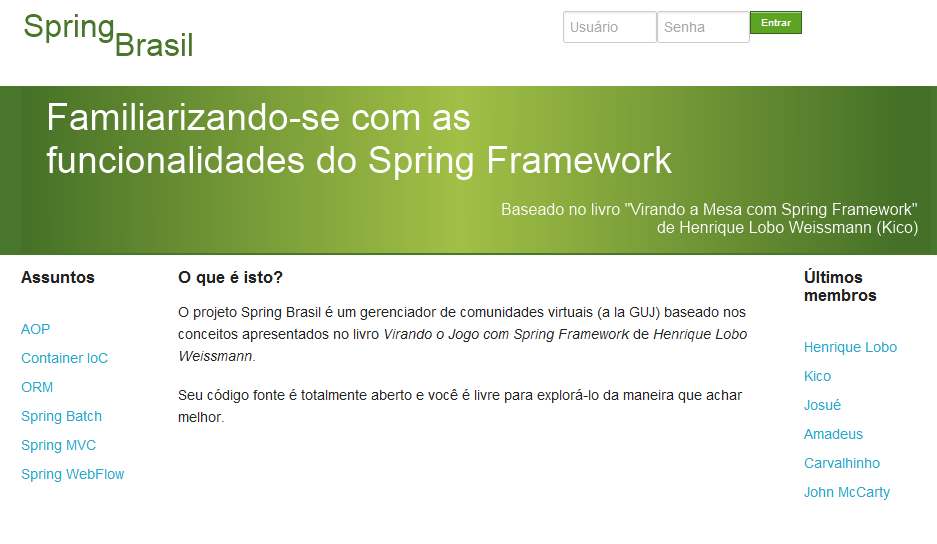
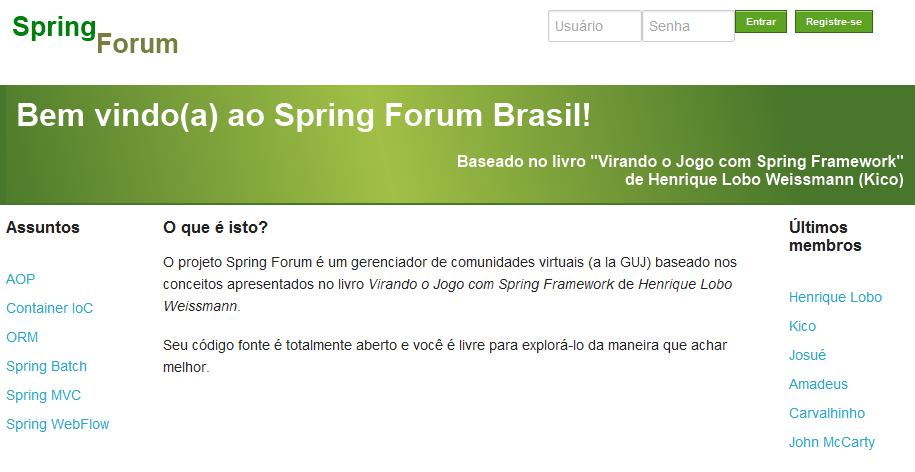
Continuando com trabalho de renomeio de Spring Brasil para Spring Forum

diff --git a/spring-brasil/src/main/java/br/com/itexto/springforum/controladores/ControllerHome.java b/spring-brasil/src/main/java/br/com/itexto/springforum/controladores/ControllerHome.java
@@ -1,0 +1,92 @@
+package br.com.itexto.springforum.controladores;
+
+import java.util.HashMap;
+import java.util.Map;
+
+import javax.servlet.http.HttpSession;
+import javax.validation.Valid;
+
+import org.springframework.beans.factory.annotation.Autowired;
+import org.springframework.stereotype.Controller;
+import org.springframework.validation.BindingResult;
+import org.springframework.web.bind.annotation.RequestMapping;
+import org.springframework.web.bind.annotation.RequestMethod;
+
+import br.com.itexto.springforum.dao.DAOAssunto;
+import br.com.itexto.springforum.dao.DAOTopico;
+import br.com.itexto.springforum.dao.DAOUsuario;
+import br.com.itexto.springforum.entidades.Usuario;
+
+@Controller
+public class ControllerHome {
+	
+	
+	@Autowired
+	private DAOUsuario daoUsuario;
+	@Autowired
+	private DAOTopico daoTopico;
+	@Autowired
+	private DAOAssunto daoAssunto;
+	
+	public DAOUsuario getDaoUsuario() {
+		return daoUsuario;
+	}
+
+	public void setDaoUsuario(DAOUsuario daoUsuario) {
+		this.daoUsuario = daoUsuario;
+	}
+
+	public DAOTopico getDaoTopico() {
+		return daoTopico;
+	}
+
+	public void setDaoTopico(DAOTopico daoTopico) {
+		this.daoTopico = daoTopico;
+	}
+
+	public DAOAssunto getDaoAssunto() {
+		return daoAssunto;
+	}
+
+	public void setDaoAssunto(DAOAssunto daoAssunto) {
+		this.daoAssunto = daoAssunto;
+	}
+	
+	/**
+	 * A anotação @RequestMapping identifica qual a URL relacionada ao método (action)
+	 * a ser executado.
+	 * 
+	 * Neste exemplo, vemos que a URL padrão para nosso sistema, o "/" sempre apontará para 
+	 * esta chamada.
+	 * @param model
+	 * @return
+	 */
+	@RequestMapping("/")
+	public String index(Map<String, Object> model) {
+		model.put("assuntos", getDaoAssunto().list());
+		model.put("usuarios", getDaoUsuario().list(0,100));
+		return "index";
+	}
+	
+	@RequestMapping("/signup")
+	public String signup(Map<String, Object> model) {
+		if (model.get("usuario") == null) {
+			model.put("usuario", new Usuario());
+		}
+		return "signup";
+	}
+	
+	@RequestMapping(value="/register", method=RequestMethod.POST)
+	public String register(@Valid Usuario usuario, BindingResult bindingResult, HttpSession sessao) {
+		
+		if (bindingResult.hasErrors()) {
+			Map<String, Object> model = new HashMap<String, Object>();
+			model.put("usuario", usuario);
+			return signup(model);
+		}
+		getDaoUsuario().persistir(usuario);
+		sessao.setAttribute("usuario", usuario);
+		return "redirect:/";
+	}
+	
+}
